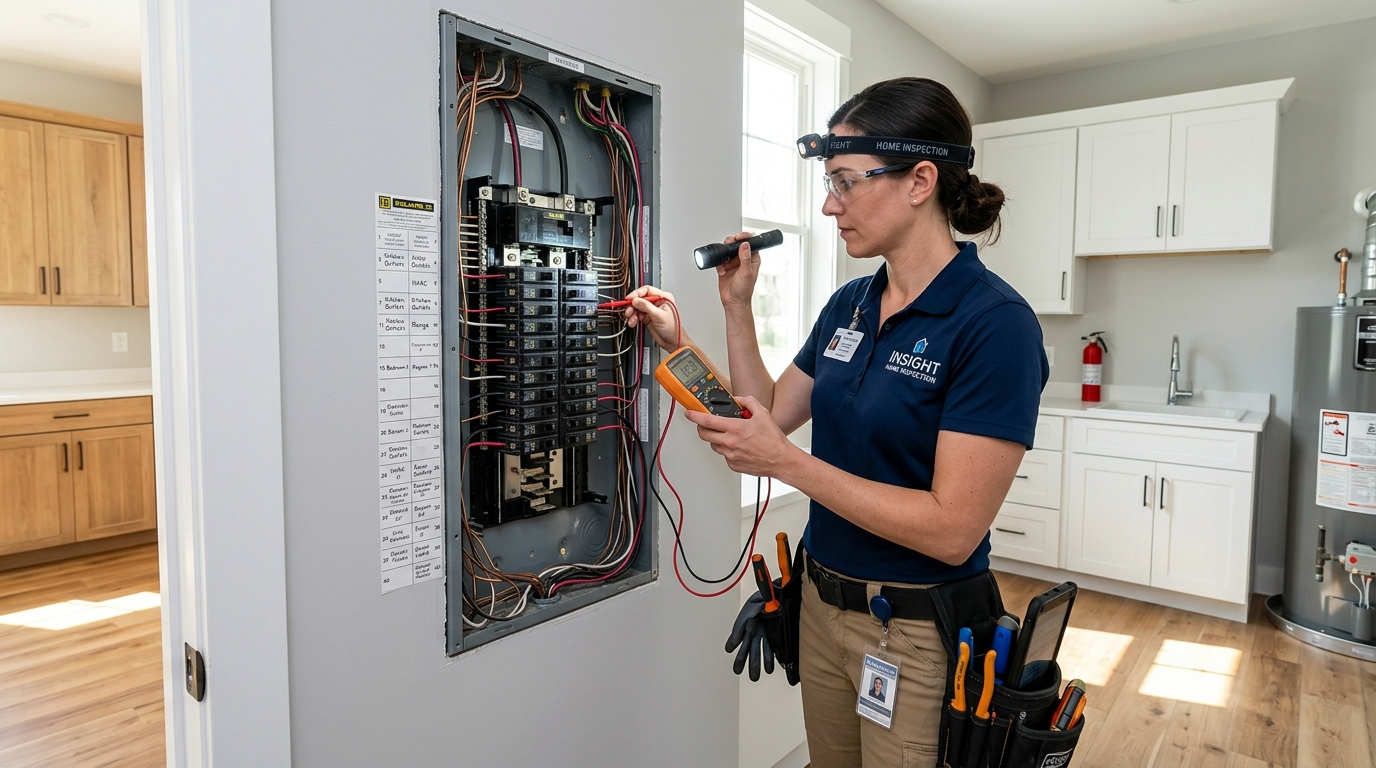
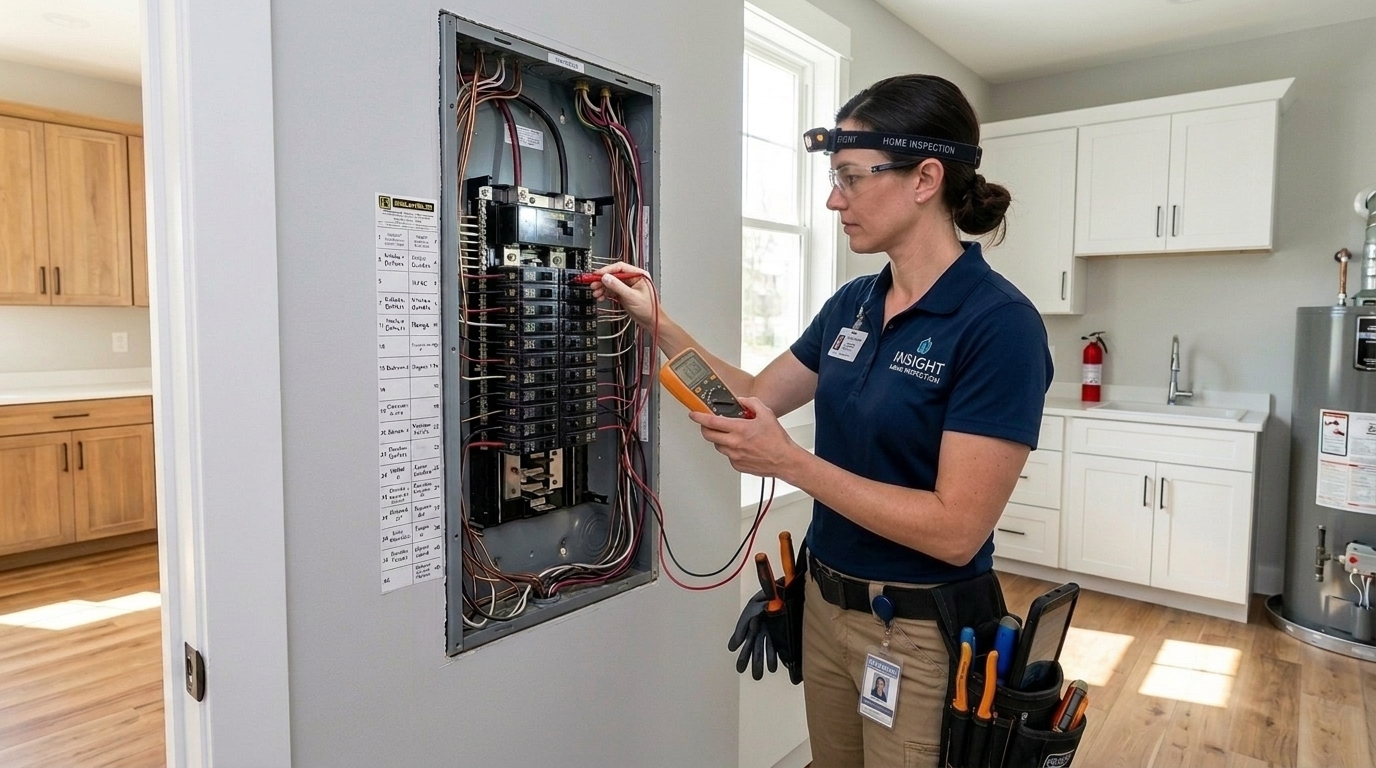
image updated

diff --git a/app/admin/login/page.tsx b/app/admin/login/page.tsx
@@ -41,6 +41,7 @@ export default function AdminLoginPage() {
           src="/assets/images/safe_home_package.jpg"
           alt="At Ease Inspections Banner"
           fill
+          sizes="(min-width: 1024px) 60vw, 100vw"
           className="object-cover opacity-85 transition-transform duration-1000 ease-out"
           priority
         />
@@ -76,6 +77,7 @@ export default function AdminLoginPage() {
                 src="/assets/images/logo.png"
                 alt="At Ease Inspections Logo"
                 fill
+                sizes="192px"
                 className="object-contain object-left"
                 priority
               />

diff --git a/components/admin/packages/wizard/WizardStepReview.tsx b/components/admin/packages/wizard/WizardStepReview.tsx
@@ -113,6 +113,7 @@ export function WizardStepReview({
                       }
                       alt={formData.name || "Package Media"}
                       fill
+                      sizes="(min-width: 768px) 50vw, 100vw"
                       className="object-cover"
                     />
                     <div className="absolute inset-0 bg-gradient-to-t from-black/60 via-transparent to-transparent flex items-end p-4 justify-between">

diff --git a/components/stepper/steps/package-addons/PackageCard.tsx b/components/stepper/steps/package-addons/PackageCard.tsx
@@ -110,6 +110,7 @@ export const PackageCard: React.FC<PackageCardProps> = ({
                 src={pkg.image}
                 alt={pkg.title}
                 fill
+                sizes="(min-width: 1024px) 50vw, 100vw"
                 className="object-cover"
               />
               <div className="absolute inset-0 bg-gradient-to-t from-black/80 via-black/30 to-transparent flex items-end justify-between p-3.5 sm:p-5">

diff --git a/components/admin/layout/AdminSidebar.tsx b/components/admin/layout/AdminSidebar.tsx
@@ -49,6 +49,7 @@ export function AdminSidebar({ isOpen = false, onClose }: AdminSidebarProps) {
                 src="/assets/images/logo.png"
                 alt="At Ease Inspections Logo"
                 fill
+                sizes="141px"
                 className="object-contain object-center"
                 priority
               />

diff --git a/components/admin/packages/PackageDetailsView.tsx b/components/admin/packages/PackageDetailsView.tsx
@@ -139,6 +139,7 @@ export function PackageDetailsView({
               src={packageItem.image}
               alt={packageItem.name}
               fill
+              sizes="(min-width: 768px) 448px, 100vw"
               className="object-cover"
             />
             <div className="absolute inset-0 flex items-center justify-center">

diff --git a/components/admin/packages/AddonCard.tsx b/components/admin/packages/AddonCard.tsx
@@ -17,6 +17,7 @@ export function AddonCard({ item }: AddonCardProps) {
           src={item.image}
           alt={item.name}
           fill
+          sizes="(min-width: 1024px) 33vw, (min-width: 640px) 50vw, 100vw"
           className="object-cover group-hover:scale-105 transition-transform duration-500"
         />
       </div>

diff --git a/components/stepper/steps/package-addons/AddonCard.tsx b/components/stepper/steps/package-addons/AddonCard.tsx
@@ -109,6 +109,7 @@ export const AddonCard: React.FC<AddonCardProps> = ({
                   src={addon.image}
                   alt={addon.title}
                   fill
+                  sizes="(min-width: 640px) 224px, 100vw"
                   className="object-cover"
                 />
               </div>

diff --git a/components/admin/packages/PackageCard.tsx b/components/admin/packages/PackageCard.tsx
@@ -30,6 +30,7 @@ export function PackageCard({
             src={item.image}
             alt={item.name}
             fill
+            sizes="(min-width: 1024px) 33vw, (min-width: 640px) 50vw, 100vw"
             className="object-cover group-hover:scale-105 transition-transform duration-500"
           />
 

diff --git a/components/admin/settings/ProfilePictureUploader.tsx b/components/admin/settings/ProfilePictureUploader.tsx
@@ -38,6 +38,7 @@ export function ProfilePictureUploader({
             src={avatarUrl || "/assets/images/safe_home_package.jpg"}
             alt="Profile Avatar"
             fill
+            sizes="64px"
             className="object-cover"
           />
         </div>

diff --git a/components/admin/layout/AdminHeader.tsx b/components/admin/layout/AdminHeader.tsx
@@ -33,6 +33,7 @@ export function AdminHeader({ onMenuToggle }: AdminHeaderProps) {
             src="/assets/images/logo.png"
             alt="Madun Laduni"
             fill
+            sizes="36px"
             className="object-cover"
           />
         </div>

diff --git a/app/admin/(protected)/add-ons/page.tsx b/app/admin/(protected)/add-ons/page.tsx
@@ -1,4 +1,4 @@
-import React from "react";
+
 import { Layers, Plus } from "lucide-react";
 
 export default function AddOnServicesPage() {
